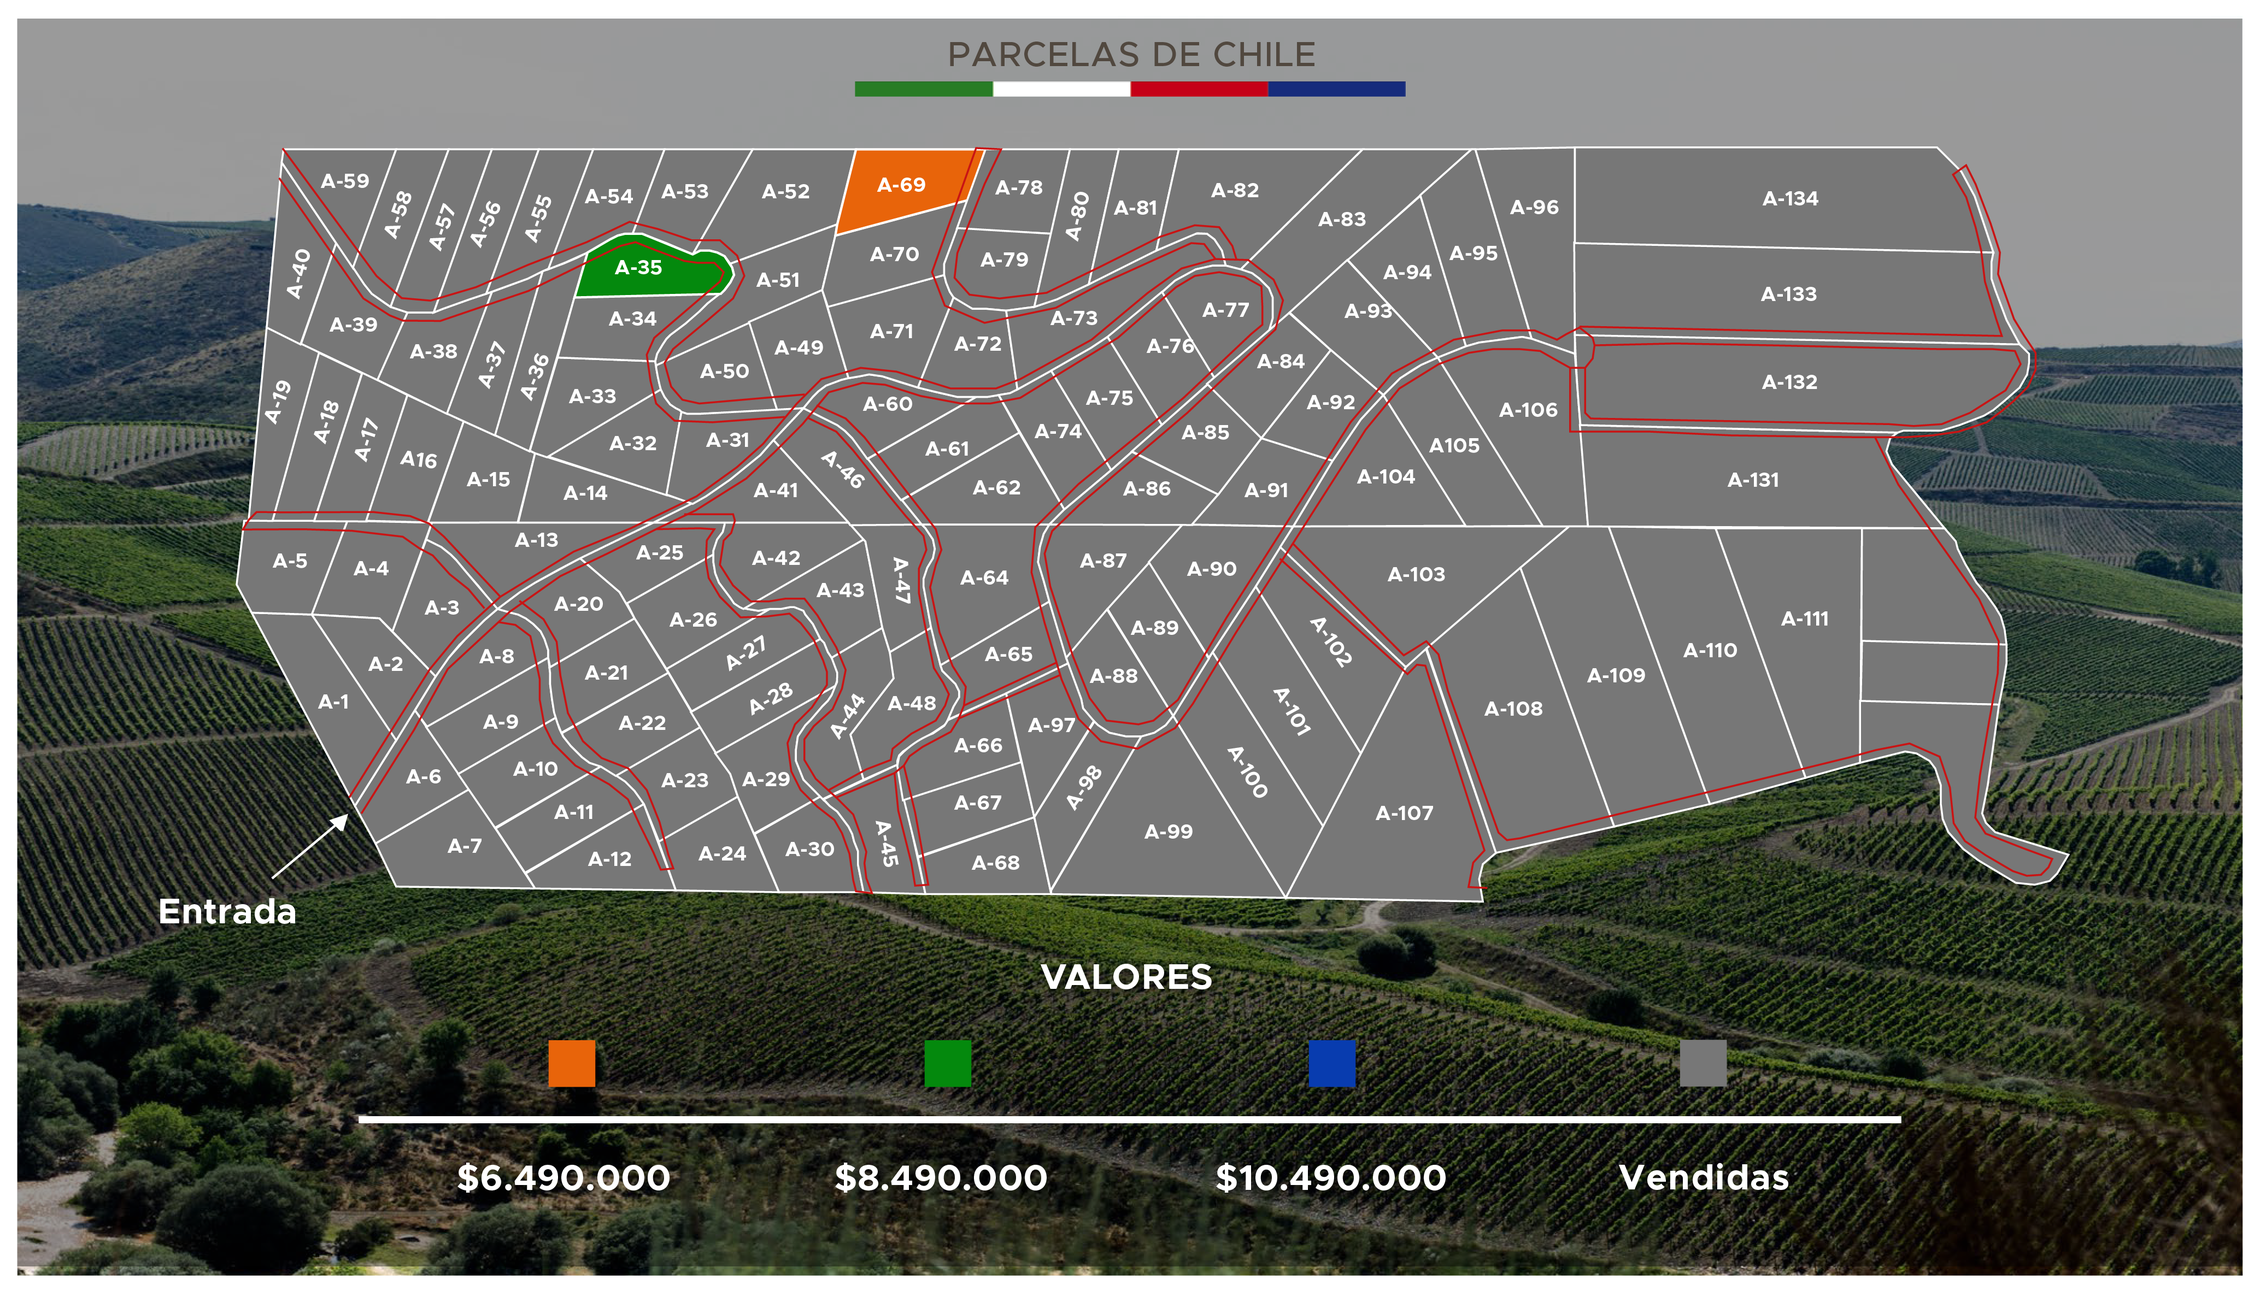
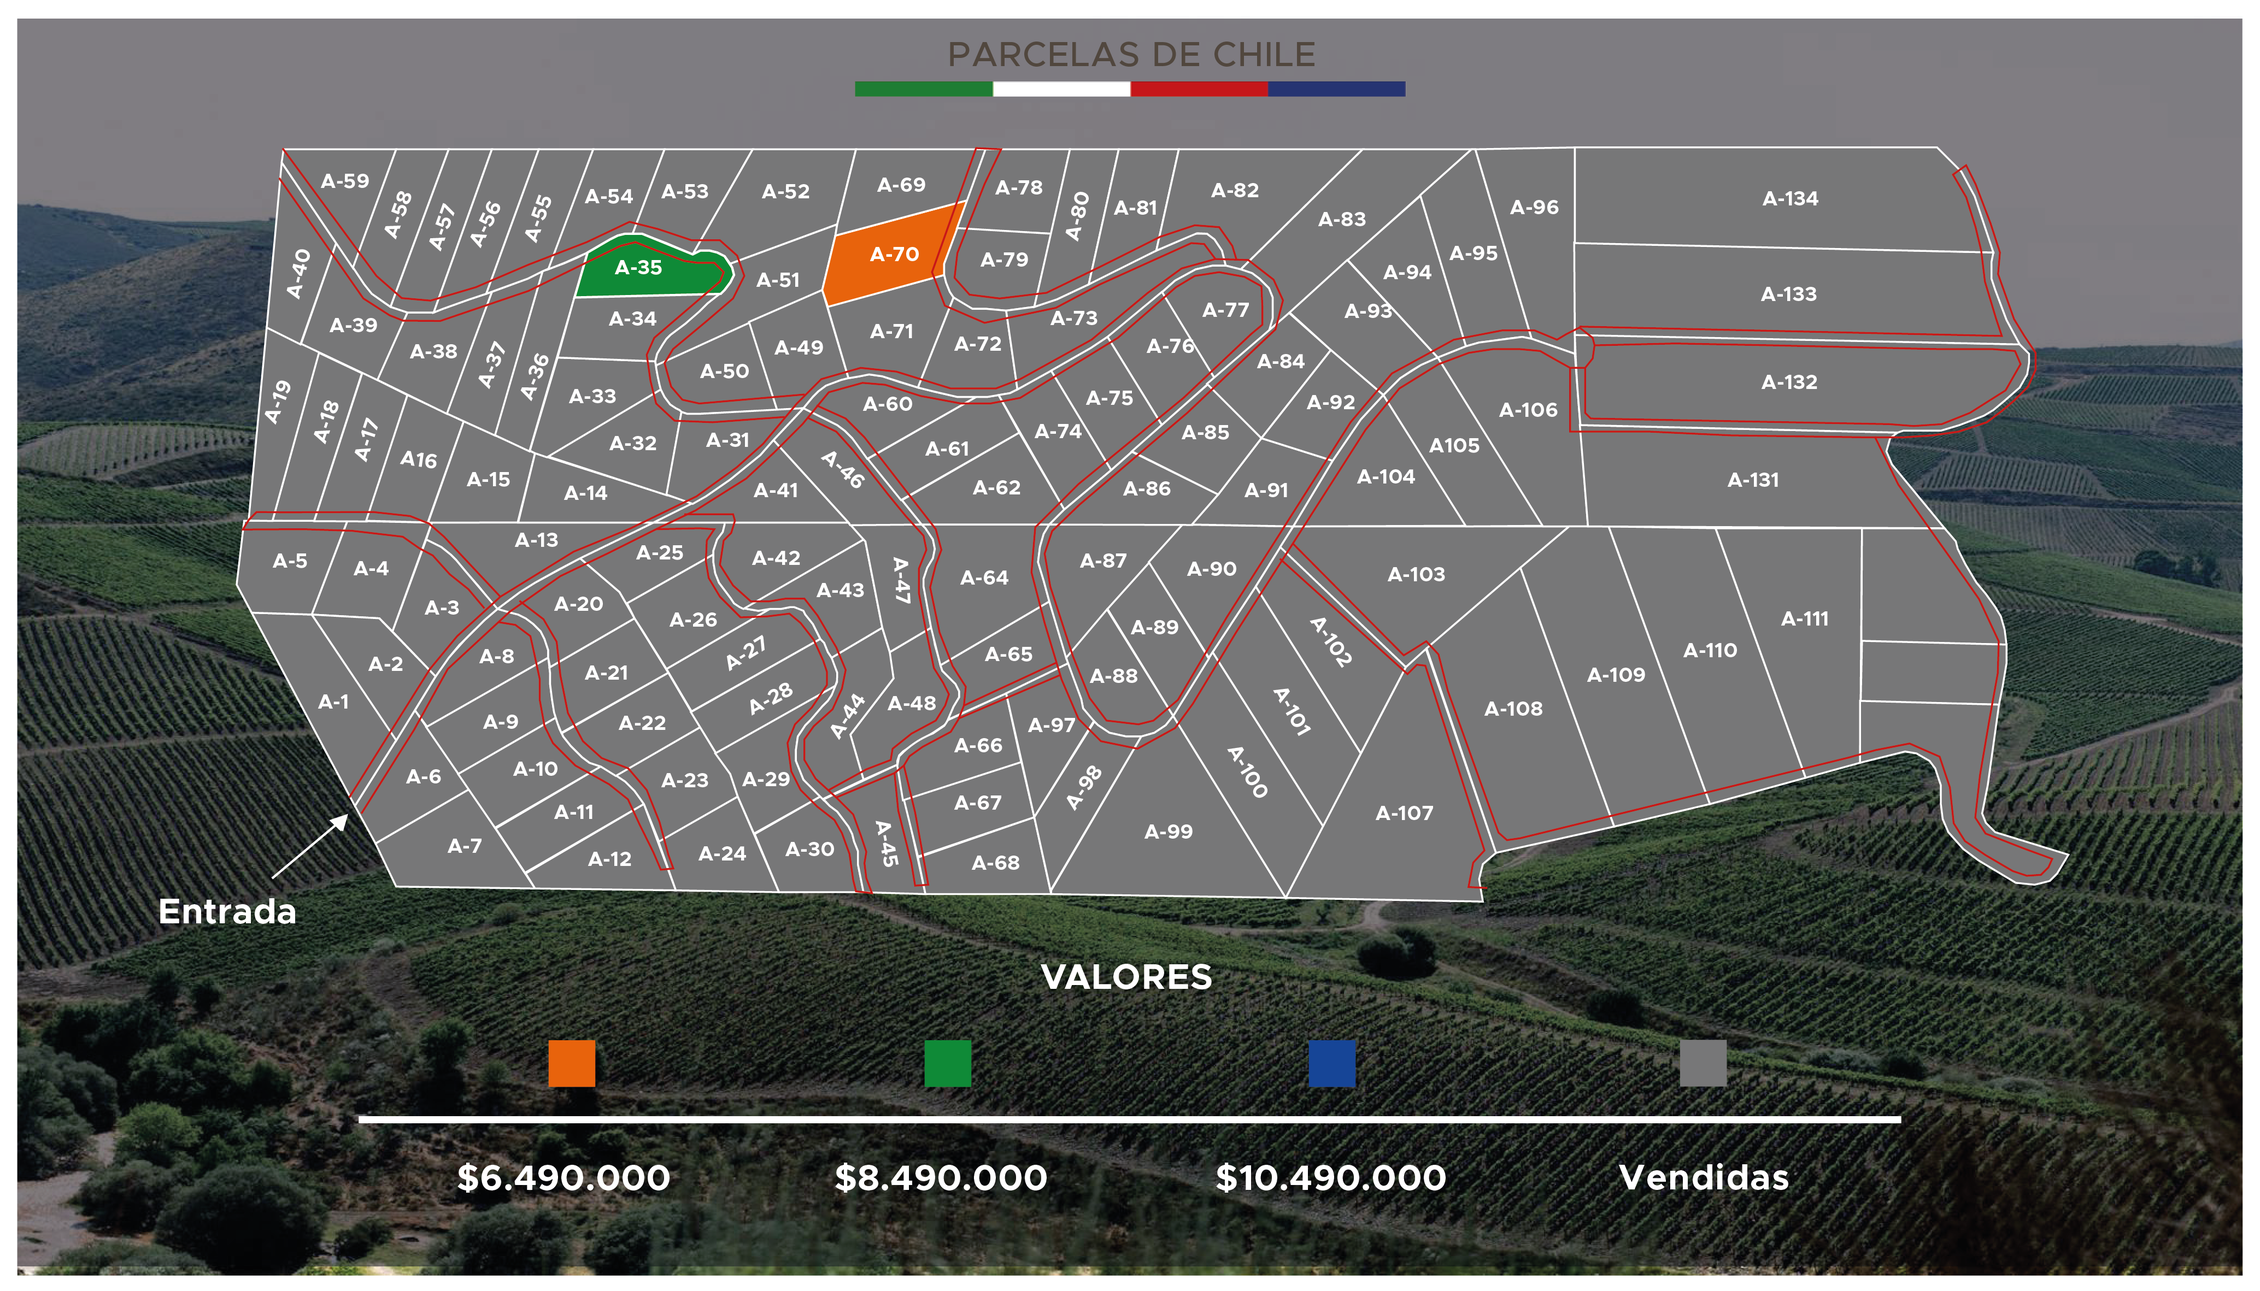
renovando parcelas

diff --git a/view/componentes/mapsvg/js/laconsentida.js b/view/componentes/mapsvg/js/laconsentida.js
@@ -31,9 +31,9 @@
                     'p-69': {
                         id: "p-69",
                         'id_no_spaces': "p-69",
-                        fill: "rgba(247,188,4,1)",
-                        tooltip: "$34.990.000",
-                        popover: "$34.990.000",
+                        fill: "rgba(88,89,89,1)",
+                        tooltip: "NO DISPONIBLE",
+                        popover: "NO DISPONIBLE",
                         data: {}
                     },
                      'lago': {
@@ -45,25 +45,25 @@
                     'p-70': {
                         id: "p-70",
                         'id_no_spaces': "p-70",
-                        fill: "rgba(247,188,4,1)",
-                        tooltip: "$34.990.000",
-                        popover: "$34.990.000",
+                        fill: "rgba(88,89,89,1)",
+                        tooltip: "NO DISPONIBLE",
+                        popover: "NO DISPONIBLE",
                         data: {}
                     },
                     'p-71': {
                         id: "p-71",
                         'id_no_spaces': "p-71",
-                        fill: "rgba(247,188,4,1)",
-                        tooltip: "$34.990.000",
-                        popover: "$34.990.000",
+                        fill: "rgba(88,89,89,1)",
+                        tooltip: "NO DISPONIBLE",
+                        popover: "NO DISPONIBLE",
                         data: {}
                     },
                     'p-72': {
                         id: "p-72",
                         'id_no_spaces': "p-72",
-                        fill: "rgba(247,188,4,1)",
-                        tooltip: "$34.990.000",
-                        popover: "$34.990.000",
+                        fill: "rgba(88,89,89,1)",
+                        tooltip: "NO DISPONIBLE",
+                        popover: "NO DISPONIBLE",
                         data: {}
                     },
                     
@@ -142,9 +142,9 @@
                     'p-30': {
                         id: "p-30",
                         'id_no_spaces': "p-30",
-                        fill: "rgba(57,142,45,1)",
-                        tooltip: "$39.990.000",
-                        popover: "$39.990.000",
+                        fill: "rgba(88,89,89,1)",
+                        tooltip: "NO DISPONIBLE",
+                        popover: "NO DISPONIBLE",
                         data: {}
                     },
                     'p-29': {
@@ -350,9 +350,9 @@
                     'p-52': {
                         id: "p-52",
                         'id_no_spaces': "p-52",
-                        fill: "rgba(190,46,56,1)",
-                        tooltip: "$29.990.000",
-                        popover: "$29.990.000",
+                        fill: "rgba(88,89,89,1)",
+                        tooltip: "NO DISPONIBLE",
+                        popover: "NO DISPONIBLE",
                         data: {}
                     },
                     'p-53': {
@@ -366,18 +366,18 @@
                     'p-54': {
                         id: "p-54",
                         'id_no_spaces': "p-54",
-                        fill: "rgba(190,46,56,1)",
-                        tooltip: "$29.990.000",
-                        popover: "$29.990.000",
+                       fill: "rgba(88,89,89,1)",
+                        tooltip: "NO DISPONIBLE",
+                        popover: "NO DISPONIBLE",
                         data: {}
                     },
                   
                     'p-55': {
                         id: "p-55",
                         'id_no_spaces': "p-55",
-                        fill: "rgba(190,46,56,1)",
-                        tooltip: "$29.990.000",
-                        popover: "$29.990.000",
+                       fill: "rgba(88,89,89,1)",
+                        tooltip: "NO DISPONIBLE",
+                        popover: "NO DISPONIBLE",
                         data: {}
                     },
                     'p-57': {
@@ -391,9 +391,9 @@
                     'p-67': {
                         id: "p-67",
                         'id_no_spaces': "p-67",
-                        fill: "rgba(252,107,8,1)",
-                        tooltip: "$38.990.000",
-                        popover: "$38.990.000",
+                        fill: "rgba(88,89,89,1)",
+                        tooltip: "NO DISPONIBLE",
+                        popover: "NO DISPONIBLE",
                         data: {}
                     },
                     'p-66': {

diff --git a/view/componentes/mapsvg/js/volantin.js b/view/componentes/mapsvg/js/volantin.js
@@ -22,17 +22,17 @@ jQuery(document).ready(function () {
             'P-58': {
                 id: "P-58",
                 'id_no_spaces': "P-58",
-                fill: "rgba(15,80,134,1)",
-                tooltip: "$10.490.000",
-                popover: "$10.490.000",
+                fill: "rgba(88,89,89,1)",
+                tooltip: "VENDIDA",
+                popover: "VENDIDA",
                 data: {}
             },
             'P-59': {
                 id: "P-59",
                 'id_no_spaces': "P-59",
-                   fill: "rgba(15,80,134,1)",
-                tooltip: "$10.490.000",
-                popover: "$10.490.000",
+                   fill: "rgba(88,89,89,1)",
+                tooltip: "VENDIDA",
+                popover: "VENDIDA",
                 data: {}
             },
             'P-60': {
@@ -46,9 +46,9 @@ jQuery(document).ready(function () {
             'P-55': {
                 id: "P-55",
                 'id_no_spaces': "P-55",
-                 fill: "rgba(15,80,134,1)",
-                tooltip: "$10.490.000",
-                popover: "$10.490.000",
+                 fill: "rgba(88,89,89,1)",
+                tooltip: "VENDIDA",
+                popover: "VENDIDA",
                 data: {}
             },
             'P-54': {
@@ -78,9 +78,9 @@ jQuery(document).ready(function () {
             'P-48': {
                 id: "P-48",
                 'id_no_spaces': "P-48",
-                fill: "rgba(15,80,134,1)",
-                tooltip: "$10.490.000",
-                popover: "$10.490.000",
+                fill: "rgba(88,89,89,1)",
+                tooltip: "VENDIDA",
+                popover: "VENDIDA",
                 data: {}
             },
             'P-50': {
@@ -118,9 +118,9 @@ jQuery(document).ready(function () {
             'P-30': {
                 id: "P-30",
                 'id_no_spaces': "P-30",
-                fill: "rgba(15,80,134,1)",
-                tooltip: "$10.490.000",
-                popover: "$10.490.000",
+                fill: "rgba(88,89,89,1)",
+                tooltip: "VENDIDA",
+                popover: "VENDIDA",
                 data: {}
             },
             'P-31': {
@@ -166,9 +166,9 @@ jQuery(document).ready(function () {
             'P-39-40': {
                 id: "P-39-40",
                 'id_no_spaces': "P-39-40",
-               fill: "rgba(207,40,59,1)",
-                tooltip: "$10.490.000",
-                popover: "$10.490.000",
+               fill: "rgba(88,89,89,1)",
+                tooltip: "VENDIDA",
+                popover: "VENDIDA",
                 data: {}
             },
             'P-37-38': {

diff --git a/view/modulos/10razones.php b/view/modulos/10razones.php
@@ -11,7 +11,7 @@
                         <!-- RD Navbar Toggle-->
                         <button data-rd-navbar-toggle=".rd-navbar-nav-wrap" class="rd-navbar-toggle"><span></span></button>
                         <!-- RD Navbar Brand-->
-                        <div class="rd-navbar-brand"><a href="inicio" class="brand-name"><img src="view/componentes/img/logo/logon.png" height="85" alt="Parcelas de chile"></a>
+                        <div class="rd-navbar-brand"><a href="inicio" class="brand-name"><img src="view/componentes/img/logo/logo18.png" height="85" alt="Parcelas de chile"></a>
                         </div>
                         <div class="rd-navbar-contacts rd-navbar-collapse rd-navbar-collapse-2"><span>Póngase en contacto con nosotros</span>
                             <div><span class="icon1 fa-phone text-primary"></span><a href="callto:> +56958053609"></span><a>+56 9 4007 5222</a>

diff --git a/view/modulos/404.php b/view/modulos/404.php
@@ -11,7 +11,7 @@
                         <!-- RD Navbar Toggle-->
                         <button data-rd-navbar-toggle=".rd-navbar-nav-wrap" class="rd-navbar-toggle"><span></span></button>
                         <!-- RD Navbar Brand-->
-                        <div class="rd-navbar-brand"><a href="inicio" class="brand-name"><img src="view/componentes/img/logo/logon.png" height="85" alt="Parcelas de chile"></a>
+                        <div class="rd-navbar-brand"><a href="inicio" class="brand-name"><img src="view/componentes/img/logo/logo18.png" height="85" alt="Parcelas de chile"></a>
                         </div>
                         <div class="rd-navbar-contacts rd-navbar-collapse rd-navbar-collapse-2"><span>Póngase en contacto con nosotros</span>
                             <div><span class="icon1 fa-phone text-primary"></span><a href="callto:> +56958053609"></span><a>+56 9 4007 5222</a>

diff --git a/view/modulos/inicio.php b/view/modulos/inicio.php
@@ -8,7 +8,7 @@
                     <!-- RD Navbar Toggle-->
                     <button data-rd-navbar-toggle=".rd-navbar-nav-wrap" class="rd-navbar-toggle"><span></span></button>
                     <!-- RD Navbar Brand-->
-                    <div class="rd-navbar-brand"><a href="inicio" class="brand-name"><img src="view/componentes/img/logo/logon.png" class="rd-navbar-brand-img" height="85" alt="Parcelas de chile"></a>
+                    <div class="rd-navbar-brand"><a href="inicio" class="brand-name"><img src="view/componentes/img/logo/logo18.png" class="rd-navbar-brand-img" height="85" alt="Parcelas de chile"></a>
                     </div>
                     <div class="rd-navbar-contacts rd-navbar-collapse rd-navbar-collapse-2"><span>Contáctanos</span>
                         <div><span class="icon1 fa-phone text-primary"></span><a href="callto:> +56986216015"></a><a>+56 9 8621 6015</a>

diff --git a/view/modulos/7beneficiospendiente.php b/view/modulos/7beneficiospendiente.php
@@ -11,7 +11,7 @@
                         <!-- RD Navbar Toggle-->
                         <button data-rd-navbar-toggle=".rd-navbar-nav-wrap" class="rd-navbar-toggle"><span></span></button>
                         <!-- RD Navbar Brand-->
-                        <div class="rd-navbar-brand"><a href="inicio" class="brand-name"><img src="view/componentes/img/logo/logon.png" height="85" alt="Parcelas de chile"></a>
+                        <div class="rd-navbar-brand"><a href="inicio" class="brand-name"><img src="view/componentes/img/logo/logo18.png" height="85" alt="Parcelas de chile"></a>
                         </div>
                         <div class="rd-navbar-contacts rd-navbar-collapse rd-navbar-collapse-2"><span>Contáctanos</span>
                             <div><span class="icon1 fa-phone text-primary"></span><a href="callto:> +56958053609"></span><a>+56 9 4007 5222</a>

diff --git a/view/modulos/beneficiarios.php b/view/modulos/beneficiarios.php
@@ -11,7 +11,7 @@
                         <!-- RD Navbar Toggle-->
                         <button data-rd-navbar-toggle=".rd-navbar-nav-wrap" class="rd-navbar-toggle"><span></span></button>
                         <!-- RD Navbar Brand-->
-                        <div class="rd-navbar-brand"><a href="inicio" class="brand-name"><img src="view/componentes/img/logo/logon.png" width="228" height="83" alt=""></a></div>
+                        <div class="rd-navbar-brand"><a href="inicio" class="brand-name"><img src="view/componentes/img/logo/logo18.png" width="228" height="83" alt=""></a></div>
                        <div class="rd-navbar-contacts rd-navbar-collapse rd-navbar-collapse-2"><span>Contáctanos</span>
                         <div><span class="icon1 fa-phone text-primary"></span><a href="callto:> +56958053609"></a><a>+56 9 4007 5222</a>
                         </div>

diff --git a/view/modulos/faq.php b/view/modulos/faq.php
@@ -10,7 +10,7 @@
                     <!-- RD Navbar Toggle-->
                     <button data-rd-navbar-toggle=".rd-navbar-nav-wrap" class="rd-navbar-toggle"><span></span></button>
                     <!-- RD Navbar Brand-->
-                    <div class="rd-navbar-brand"><a href="inicio" class="brand-name"><img src="view/componentes/img/logo/logon.png" height="85" alt="Parcelas de chile"></a>
+                    <div class="rd-navbar-brand"><a href="inicio" class="brand-name"><img src="view/componentes/img/logo/logo18.png" height="85" alt="Parcelas de chile"></a>
                     </div>
                     <div class="rd-navbar-contacts rd-navbar-collapse rd-navbar-collapse-2"><span>Contáctanos</span>
                         <div><span class="icon1 fa-phone text-primary"></span><a href="callto:> +56958053609"></a><a>+56 9 4007 5222</a>

diff --git a/view/modulos/quienessomos.php b/view/modulos/quienessomos.php
@@ -8,7 +8,7 @@
                     <!-- RD Navbar Toggle-->
                     <button data-rd-navbar-toggle=".rd-navbar-nav-wrap" class="rd-navbar-toggle"><span></span></button>
                     <!-- RD Navbar Brand-->
-                    <div class="rd-navbar-brand"><a href="inicio" class="brand-name"><img src="view/componentes/img/logo/logon.png" height="85" alt="Parcelas de chile"></a>
+                    <div class="rd-navbar-brand"><a href="inicio" class="brand-name"><img src="view/componentes/img/logo/logo18.png" height="85" alt="Parcelas de chile"></a>
                     </div>
                     <div class="rd-navbar-contacts rd-navbar-collapse rd-navbar-collapse-2"><span>Contáctanos</span>
                         <div><span class="icon1 fa-phone text-primary"></span><a href="callto:> +56958053609"></a><a>+56 9 4007 5222</a>

diff --git a/view/modulos/contacto.php b/view/modulos/contacto.php
@@ -9,7 +9,7 @@
                     <!-- RD Navbar Toggle-->
                     <button data-rd-navbar-toggle=".rd-navbar-nav-wrap" class="rd-navbar-toggle"><span></span></button>
                     <!-- RD Navbar Brand-->
-                    <div class="rd-navbar-brand"><a href="inicio" class="brand-name"><img src="view/componentes/img/logo/logon.png" height="85" alt=""></a></div>
+                    <div class="rd-navbar-brand"><a href="inicio" class="brand-name"><img src="view/componentes/img/logo/logo18.png" height="85" alt=""></a></div>
                     <div class="rd-navbar-contacts rd-navbar-collapse rd-navbar-collapse-2"><span>Contáctanos</span>
                         <div><span class="icon1 fa-phone text-primary"></span><a href="callto:> +56958053609"></a><a>+56 9 4007 5222</a>
                         </div>

diff --git a/view/modulos/reservaonline.php b/view/modulos/reservaonline.php
@@ -8,7 +8,7 @@
                     <!-- RD Navbar Toggle-->
                     <button data-rd-navbar-toggle=".rd-navbar-nav-wrap" class="rd-navbar-toggle"><span></span></button>
                     <!-- RD Navbar Brand-->
-                    <div class="rd-navbar-brand"><a href="inicio" class="brand-name"><img src="view/componentes/img/logo/logon.png" height="85" alt=""></a></div>
+                    <div class="rd-navbar-brand"><a href="inicio" class="brand-name"><img src="view/componentes/img/logo/logo18.png" height="85" alt=""></a></div>
                     <div class="rd-navbar-contacts rd-navbar-collapse rd-navbar-collapse-2"><span>Contáctanos</span>
                         <div><span class="icon1 fa-phone text-primary"></span><a href="callto:> +56958053609"></a><a>+56 9 4007 5222</a>
                         </div>

diff --git a/view/modulos/trabajaconnosotros.php b/view/modulos/trabajaconnosotros.php
@@ -8,7 +8,7 @@
                     <!-- RD Navbar Toggle-->
                     <button data-rd-navbar-toggle=".rd-navbar-nav-wrap" class="rd-navbar-toggle"><span></span></button>
                     <!-- RD Navbar Brand-->
-                    <div class="rd-navbar-brand"><a href="inicio" class="brand-name"><img src="view/componentes/img/logo/logon.png" height="85" alt=""></a></div>
+                    <div class="rd-navbar-brand"><a href="inicio" class="brand-name"><img src="view/componentes/img/logo/logo18.png" height="85" alt=""></a></div>
                     <div class="rd-navbar-contacts rd-navbar-collapse rd-navbar-collapse-2"><span>Contáctanos</span>
                         <div><span class="icon1 fa-phone text-primary"></span><a href="callto:> +56958053609"></a><a>+56 9 4007 5222</a>
                         </div>
